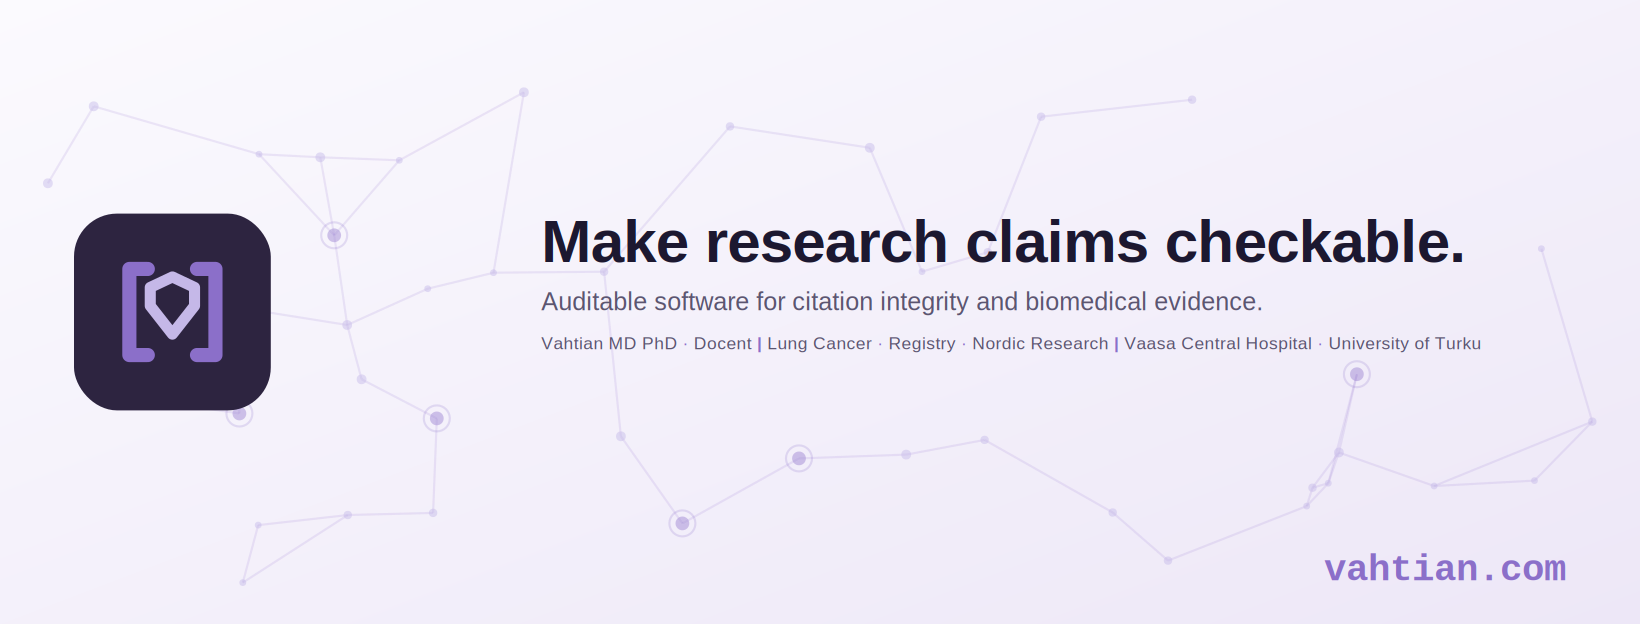
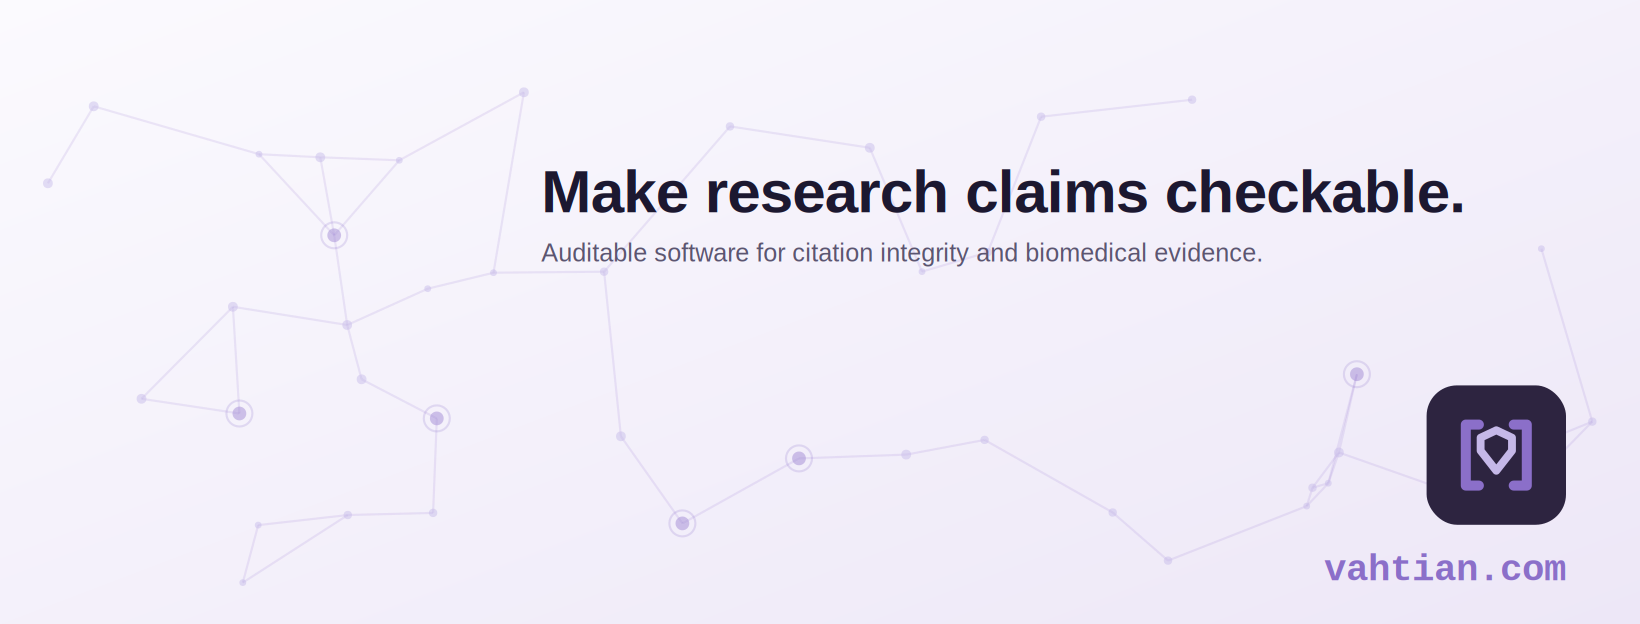
Move mark to bottom-right above url; drop credential tagline
Relocates the Vahtian mark from the left into the bottom-right corner,
stacked just above vahtian.com, and removes the founder credential tagline
from all banners.

diff --git a/brand/social/generate.py b/brand/social/generate.py
@@ -23,8 +23,6 @@ BG_BOT  = "#EDE7F7"   # off-white lavender (deeper tint)
 
 HEADLINE = "Make research claims checkable."
 SUBHEAD  = "Auditable software for citation integrity and biomedical evidence."
-TAGLINE  = ("Vahtian MD PhD · Docent | Lung Cancer · Registry · Nordic Research "
-            "| Vaasa Central Hospital · University of Turku")
 URL      = "vahtian.com"
 
 SANS = "Liberation Sans, DejaVu Sans, sans-serif"
@@ -52,19 +50,6 @@ def esc(t):
 def fit(text, avail, ideal, factor):
     by_width = avail / max(1, len(text) * factor)
     return min(ideal, by_width)
-
-# Render the credential tagline with the `·` / `|` separators in violet so the
-# groups read as distinct, the rest in muted ink.
-def tagline_tspans(text):
-    out = []
-    for i, tok in enumerate(text.split(" ")):
-        lead = "" if i == 0 else " "
-        if tok in ("·", "|"):
-            w = ' font-weight="700"' if tok == "|" else ""
-            out.append(f'<tspan fill="{VIOLET}"{w}>{lead}{esc(tok)}</tspan>')
-        else:
-            out.append(f'<tspan fill="{MUTED}">{lead}{esc(tok)}</tspan>')
-    return "".join(out)
 
 def graph(W, H, seed):
     """A faint lavender citation graph: nodes joined to near neighbours."""
@@ -112,9 +97,6 @@ def graph(W, H, seed):
 def banner(W, H, seed, with_text=True):
     mh = min(W, H)
     hmargin = round(W * 0.045)
-    s = min(H * 0.34, W * 0.12)            # mark size
-    mark_x = hmargin
-    mark_y = (H - s) / 2.0
 
     svg = [
         f'<svg xmlns="http://www.w3.org/2000/svg" width="{W}" height="{H}" '
@@ -129,15 +111,19 @@ def banner(W, H, seed, with_text=True):
     ]
 
     if with_text:
-        tx = max(mark_x + s + W * 0.04, W * 0.33)
+        uf = max(14, min(40, H * 0.06))
+        url_y = H - mh * 0.07
+        # Mark in the bottom-right corner, stacked just above the url.
+        ms = min(H * 0.30, W * 0.085)
+        mx = W - hmargin - ms
+        my = url_y - uf * 0.9 - mh * 0.035 - ms
+
+        tx = W * 0.33                              # text block, centre-right
         avail = W - tx - hmargin
         hf = fit(HEADLINE, avail, H * 0.17, 0.55)
         sf = fit(SUBHEAD, avail, hf * 0.42, 0.52)
-        tf = fit(TAGLINE, avail, sf * 0.82, 0.52)
-        head_y = H * 0.42
-        sub_y = head_y + hf * 0.80
-        tag_y = sub_y + sf * 1.55
-        uf = max(14, min(40, H * 0.06))
+        head_y = H * 0.34
+        sub_y = head_y + hf * 0.82
         svg.append(
             f'<text x="{tx:.1f}" y="{head_y:.1f}" font-family="{SANS}" '
             f'font-size="{hf:.1f}" font-weight="700" fill="{INK}" '
@@ -147,16 +133,12 @@ def banner(W, H, seed, with_text=True):
             f'<text x="{tx:.1f}" y="{sub_y:.1f}" font-family="{SANS}" '
             f'font-size="{sf:.1f}" fill="{MUTED}">{esc(SUBHEAD)}</text>'
         )
+        svg.append(mark(mx, my, ms))
         svg.append(
-            f'<text x="{tx:.1f}" y="{tag_y:.1f}" font-family="{SANS}" '
-            f'font-size="{tf:.1f}" letter-spacing="0.2">{tagline_tspans(TAGLINE)}</text>'
-        )
-        svg.append(
-            f'<text x="{W - hmargin:.1f}" y="{H - mh * 0.07:.1f}" '
+            f'<text x="{W - hmargin:.1f}" y="{url_y:.1f}" '
             f'font-family="{MONO}" font-size="{uf:.1f}" font-weight="700" '
             f'fill="{VIOLET}" text-anchor="end">{esc(URL)}</text>'
         )
-        svg.append(mark(mark_x, mark_y, s))
     else:
         # logo-only: centre the mark, keep the graph as quiet texture
         cs = min(H * 0.42, W * 0.18)

diff --git a/brand/social/README.md b/brand/social/README.md
@@ -1,9 +1,10 @@
 # Vahtian social / video-call banners
 
-Off-white-lavender banners with the Vahtian mark on the left, a faint lavender
-citation graph (nodes + edges) as the accent, dark main text, and the
-`vahtian.com` wordmark bottom-right. Built self-contained per
-[`../STYLE.md`](../STYLE.md): local fonts, inline SVG, no external requests.
+Off-white-lavender banners with a faint lavender citation graph (nodes + edges)
+as the accent, dark main text centre-right, and the Vahtian mark in the
+bottom-right corner stacked just above the `vahtian.com` wordmark. Built
+self-contained per [`../STYLE.md`](../STYLE.md): local fonts, inline SVG, no
+external requests.
 
 Run `python3 generate.py` (needs `cairosvg`) to rebuild every `.svg` + `.png`.
 
